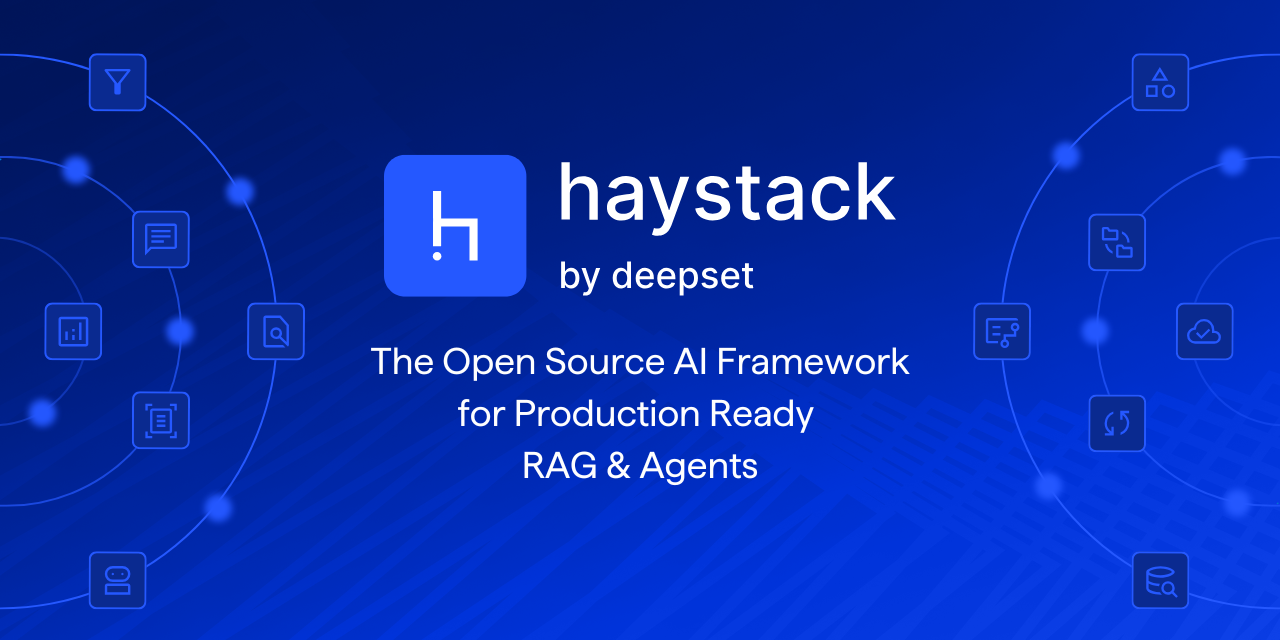
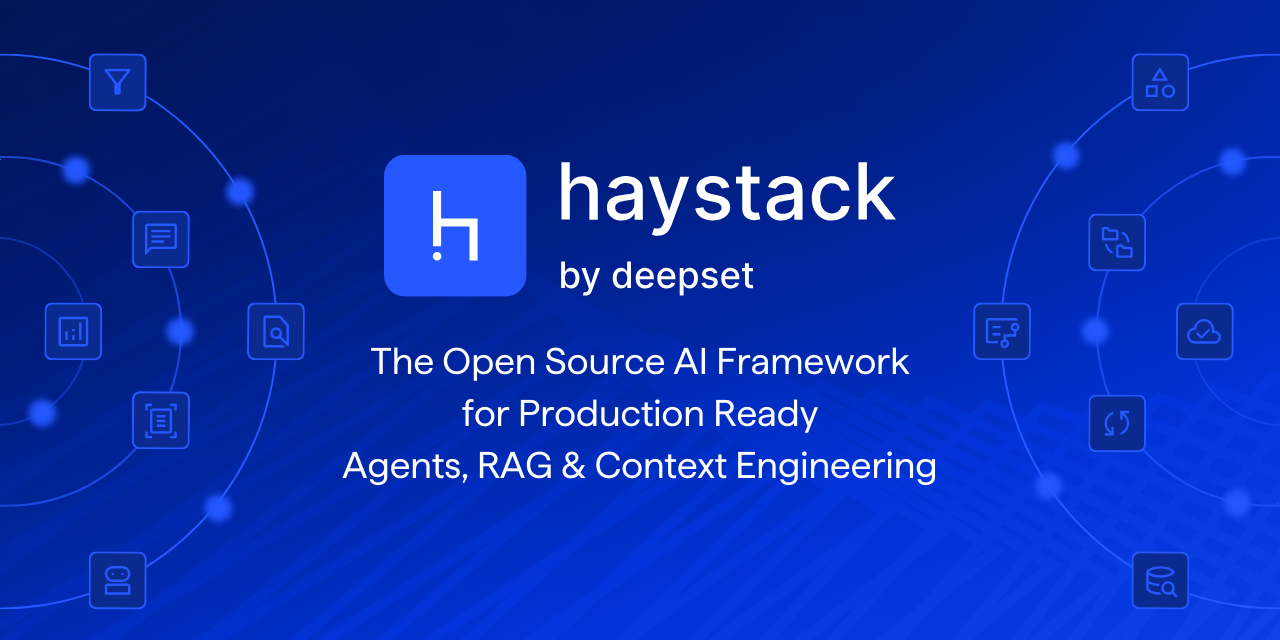
Update content & meta image after context engineering updates

Changed region(s): [[0.25, 0.625, 0.75, 0.75]]

diff --git a/themes/haystack/layouts/partials/footer.html b/themes/haystack/layouts/partials/footer.html
@@ -28,7 +28,7 @@
 
         {{/* Tagline */}}
         <p class="footer-tagline">
-          Building products, technology and solutions for LLM-enabled applications.
+          Build custom AI agents and RAG applications with smart context engineering, powered by open AI orchestration.
         </p>
 
         {{/* Legal links (desktop) */}}

diff --git a/content/overview/intro.md b/content/overview/intro.md
@@ -3,16 +3,16 @@ layout: overview
 header: dark
 footer: dark
 title: What is Haystack?
-desciption: Create agentic, compound AI systems using Haystack’s modular and customizable building blocks, built for real-world, production-ready applications.
+desciption: Create agentic, context engineered systems using Haystack’s modular and customizable building blocks, built for real-world, production-ready applications.
 weight: 1
 toc: true
 ---
 
-[Haystack](https://github.com/deepset-ai/haystack) is an open-source AI orchestration framework built by [deepset](https://www.deepset.ai/) that empowers Python developers to build **real-world, compound, agentic LLM applications**.
+[Haystack](https://github.com/deepset-ai/haystack) is an open-source AI orchestration framework built by [deepset](https://www.deepset.ai/), enabling Python developers to **build production-ready AI agents, multimodal applications, and advanced RAG systems**.
 
-Whether you’re building **autonomous agents**, **multi-modal apps**, or **scalable RAG systems**, Haystack gives you the tools to go from idea to production with ease. Its powerful, modular architecture helps you try out state-of-the-art methods, customize deeply when needed, and stay in control of your stack.
+Built for scalable context engineering, Haystack gives you control over how information moves through your system, from retrieval and tool use to memory and model execution. Haystack structures agents and applications as explicit, modular pipelines composed of retrievers, routers, memory layers, tools, evaluators, and generators. This modular architecture allows each component to be tested, replaced, and improved independently. As a result, you can ship faster and continuously evolve applications in production.
 
-Backed by an inspiring [community](https://haystack.deepset.ai/community) of developers, Haystack has evolved into a **complete and intuitive framework** for LLM-based development.
+Backed by a global developer community and enterprise customer adoption, Haystack has become a trusted framework for building AI applications that operate reliably in complex, mission-critical environments.
 
 ```bash
 pip install -U haystack-ai
@@ -22,39 +22,58 @@ pip install -U haystack-ai
 
 ## Who is Haystack For?
 
-Haystack is for builders of all kinds—whether you’re prototyping your first AI application or deploying sophisticated systems at scale. If you know a bit of Python, you’re ready to start.
+Haystack is built for AI developers and engineers creating AI systems that need to be accurate, modular, and transparent. It supports everything from agent workflows to advanced RAG and multimodal applications.
 
-You can build directly in Python or scale up with enterprise-grade infrastructure on the [Haystack Enterprise Platform](https://www.deepset.ai/products-and-services/deepset-ai-platform). Whatever your level or need, Haystack gives you the power to build, experiment, and launch faster.
+It’s designed for AI systems running in real-world enterprise environments. Haystack integrates with existing architectures, supports governance and compliance requirements, and lets you keep evolving your application as models, techniques, and user needs change.
+
+Run Haystack in your own environment, get [dedicated support](https://www.deepset.ai/products-and-services/haystack-enterprise-starter) or extend it with [a cloud or self-hosted platform](https://www.deepset.ai/products-and-services/haystack-enterprise-platform) to test, deploy, and operate pipelines at scale.
 
 ## Why Developers Love Haystack
 
 Built for production from day one, Haystack is the leading open-source framework for building reliable, flexible, and composable LLM applications from first prototype to full-scale deployment. 
 
+Modern AI systems don’t fail because of the model. They fail because context is not well managed.
+Haystack gives developers full control over how context is retrieved, structured, routed, evaluated, and improved over time.
+
 Here’s why developers choose Haystack:
 
-- **Build flexible pipelines** using Haystack’s built-in components like retrievers, generators, rankers, agent, or [create your own](https://docs.haystack.deepset.ai/docs/custom-components).
-- **Customize with full control** by [adding loops and branches to your pipeline](https://docs.haystack.deepset.ai/docs/pipelines), and tailor data flow to fit your use case.
-- **Integrate smoothly** with [model providers, vector databases, and AI tools](https://haystack.deepset.ai/integrations) in a modular, swappable architecture
-- **Deploy effortlessly** and serve your pipelines as REST APIs or as an MCP Server using with [Hayhooks](https://github.com/deepset-ai/hayhooks).
-- **Monitor and optimize** using built-in [tracing](https://docs.haystack.deepset.ai/docs/tracing), [logging](https://docs.haystack.deepset.ai/docs/logging), and [evaluation](https://docs.haystack.deepset.ai/docs/evaluation) tools for full observability.
-- **Rely on robust engineering** with clean architecture, careful dependency management, and a [breaking change policy](https://docs.haystack.deepset.ai/docs/breaking-change-policy) that ensures no bad surprises.
+**Engineer context, not just prompts**  
+Design explicit pipelines that control retrieval, ranking, memory, tools, and generation so every token sent to the model is intentional and traceable.
 
-Whether it’s **agent workflows, retrieval over millions of docs, text-to-SQL or** **PDF parsing,** Haystack scales with your idea without scaling your complexity.
+**Build flexible, composable systems**  
+Use built-in components like retrievers, generators, rankers, and agents or [create your own](https://docs.haystack.deepset.ai/docs/custom-components). Add loops, branches, and conditional logic to tailor [context flow](https://docs.haystack.deepset.ai/docs/pipelines) to your exact use case.
+
+**Swap models and components without rewriting your system**  
+[Integrate](https://haystack.deepset.ai/integrations) smoothly with model providers, vector databases, and AI tools in a modular architecture built for change and continual improvement.
+
+**Deploy into real environments**  
+Serve pipelines as REST APIs or MCP servers with [Hayhooks](https://github.com/deepset-ai/hayhooks). Run in your own infrastructure and integrate with enterprise architectures.
+
+**Observe and improve continuously**    
+Use [tracing](https://docs.haystack.deepset.ai/docs/tracing), [logging](https://docs.haystack.deepset.ai/docs/logging), and [evaluation](https://docs.haystack.deepset.ai/docs/evaluation) tools to monitor retrieval quality, latency, tool usage, and outputs and iteratively refine your system.
+
+**Build on stable engineering foundations**    
+Clean architecture, careful dependency management, and a [breaking change policy](https://docs.haystack.deepset.ai/docs/breaking-change-policy) that avoids surprises in production.
+
+Whether you're building **agent workflows, retrieval over millions of docs, text-to-SQL pipelines, or document processing flows**, Haystack lets you scale capabilities without increasing system complexity by giving you explicit control over context flow.
 
 ## The Haystack Ecosystem
 
-We’re building the tools to make LLMs truly usable in production—open source and beyond.
+We build tools that make LLM applications usable in production, from open-source foundations to full-scale operational platforms.
 
-- [Haystack](https://github.com/deepset-ai/haystack) → Our core framework for AI orchestration, launched in 2020.
-- [Haystack Enterprise Starter](https://www.deepset.ai/products-and-services/haystack-enterprise) → Expert support, advanced pipeline templates, deployment guides, and early access features for teams needing more support and guidance.
-- [Haystack Enterprise Platform](https://www.deepset.ai/products-and-services/deepset-ai-platform) → An enterprise-ready platform for teams running Gen AI apps in production, with security, governance, and scalability built in.
-- [Haystack Enterprise Platform Trial](https://www.deepset.ai/deepset-studio) → A free visual interface for building pipelines, experimenting with data, and deploying apps for development.
+- [Haystack](https://github.com/deepset-ai/haystack) → Our open-source Python framework for AI orchestration, launched in 2020. Build modular pipelines that control retrieval, agents, tools, and generation with full transparency and flexibility.
+- [Haystack Enterprise Starter](https://www.deepset.ai/products-and-services/haystack-enterprise-starter) → Expert guidance, advanced pipeline templates, deployment playbooks, and early access features for teams that want to move faster with experienced support.
+- [Haystack Enterprise Platform](hhttps://www.deepset.ai/products-and-services/haystack-enterprise-platform) → A production platform for running Gen AI applications at scale with governance, testing, observability, security controls, and infrastructure flexibility designed for real-world enterprise environments. [Try it for free](https://www.deepset.ai/haystack-enterprise-platform-trial).
 
-Recognized as a [2024 Gartner Cool Vendor in AI Engineering](https://landing.deepset.ai/deepset-recognized-as-a-gartner-cool-vendor), we’re proud to serve the community and enterprises alike.
+Recognized as a [Gartner Cool Vendor in AI Engineering](https://landing.deepset.ai/deepset-recognized-as-a-gartner-cool-vendor), we’re proud to support both the global open-source community and enterprises building mission-critical AI systems.
 
 ## Haystack Community
 
-Behind Haystack is a global community of makers, researchers, and tinkerers who believe in the power of open-source collaboration. From first-time contributors to core developers, our community brings a rich mix of backgrounds, interests, and skills.
+Behind Haystack is a global community of developers, researchers, and AI builders who care about making LLM systems reliable in the real world.
+
+From first-time contributors to core maintainers, the community brings deep expertise across retrieval, agents, evaluation, infrastructure, and applied AI. Together, we test ideas, bring them to production-readiness, share implementation patterns, and push the boundaries of what open-source AI systems can do.
+
+Haystack grows through practical collaboration, not just experimentation, but building systems that work.
 
 We’d love to have you involved:
 
@@ -62,7 +81,7 @@ We’d love to have you involved:
 - 🧑💻 Contribute to the project on [GitHub](https://github.com/deepset-ai/haystack)
 - 🎙 Join us at [live events, webinars, and office hours](https://lu.ma/haystack)
 - 📺 Catch talks and tutorials on [YouTube](https://www.youtube.com/@haystack_ai)
-- 🐘 Follow along on [X (Twitter)](https://x.com/Haystack_AI) or [Mastodon](https://fosstodon.org/@haystack_ai)
+- 🐦 Follow along on [X (Twitter)](https://x.com/Haystack_AI)
 - 💌 Get our latest news in your inbox via the [Haystack newsletter](https://landing.deepset.ai/haystack-community-updates)
 
 ## Enter the Haystack Open Source Universe

diff --git a/content/_index.md b/content/_index.md
@@ -7,7 +7,7 @@ description: Create agentic, compound AI systems using Haystack’s modular and 
 
 # Hero
 hero:
-  title: The Open Source AI Framework <br/>for Production Ready <br/> RAG & Agents
+  title: The Open Source AI Framework <br/>for Production Ready <br/> Agents, RAG & Context Engineering
   buttons:
     - buttonText: pip install haystack-ai
     - buttonText: Get Started with Haystack
@@ -61,10 +61,10 @@ hero:
   features:
     title: Why Teams Choose Haystack for their AI Workflows
     items:
-      - title: Build Transparent, Customizable AI Systems
+      - title: Build Transparent, Context Engineered AI Systems
         icon: /images/icons/star-icon.svg
         text: |
-          Orchestrate every step of your AI agent, from retrieval to reasoning to tool use.
+          Orchestrate every step of your AI agent, from retrieval to reasoning to memory and tool use.
 
           Haystack’s modular framework gives you full visibility to inspect, debug, and optimize every decision your AI makes.
 
@@ -164,14 +164,14 @@ useCases:
     - title: Advanced<br> RAG
       text: Build highly performant RAG pipelines with a multitude of retrieval and generation strategies. From hybrid retrieval to self-correction loops, Haystack has got you covered.
       icon: /images/icons/use-case-1.svg
-    - title: Agentic<br> Pipelines
-      text: All our LLM generators come with a standard function-calling interface so that your LLM can leverage tools to achieve more. Our pipeline architecture provides branching and looping to support complex agent workflows.
+    - title: AI<br> Agents
+      text: Design production-ready AI agents with standardized tool calling and scalable context engineering. Branching and looping pipelines give you full control over complex, multi-step decision flows.
       icon: /images/icons/use-case-4.svg
     - title: Multimodal<br> AI
-      text: Architect a next generation AI app around all modalities, not just text. Haystack can do tasks like image processing, image generation, and audio transcription too.
+      text: Architect a next generation AI app around all modalities, not just text. Haystack can do tasks like image processing and audio transcription too.
       icon: /images/icons/use-case-1.svg
     - title: Conversational<br> AI
-      text: All of our generators provide a standardized chat interface so that you can focus on building the perfect bot for your users.
+      text: All of our generators provide a standardized interface so that you can focus on building the perfect bot for your users.
       icon: /images/icons/use-case-2.svg
     - title: Content<br> Generation
       text: The flexibility and composability of Haystack’s prompt flow is unparalleled. Leverage our Jinja-2 templates and build a content generation engine that exactly matches your workflow.
